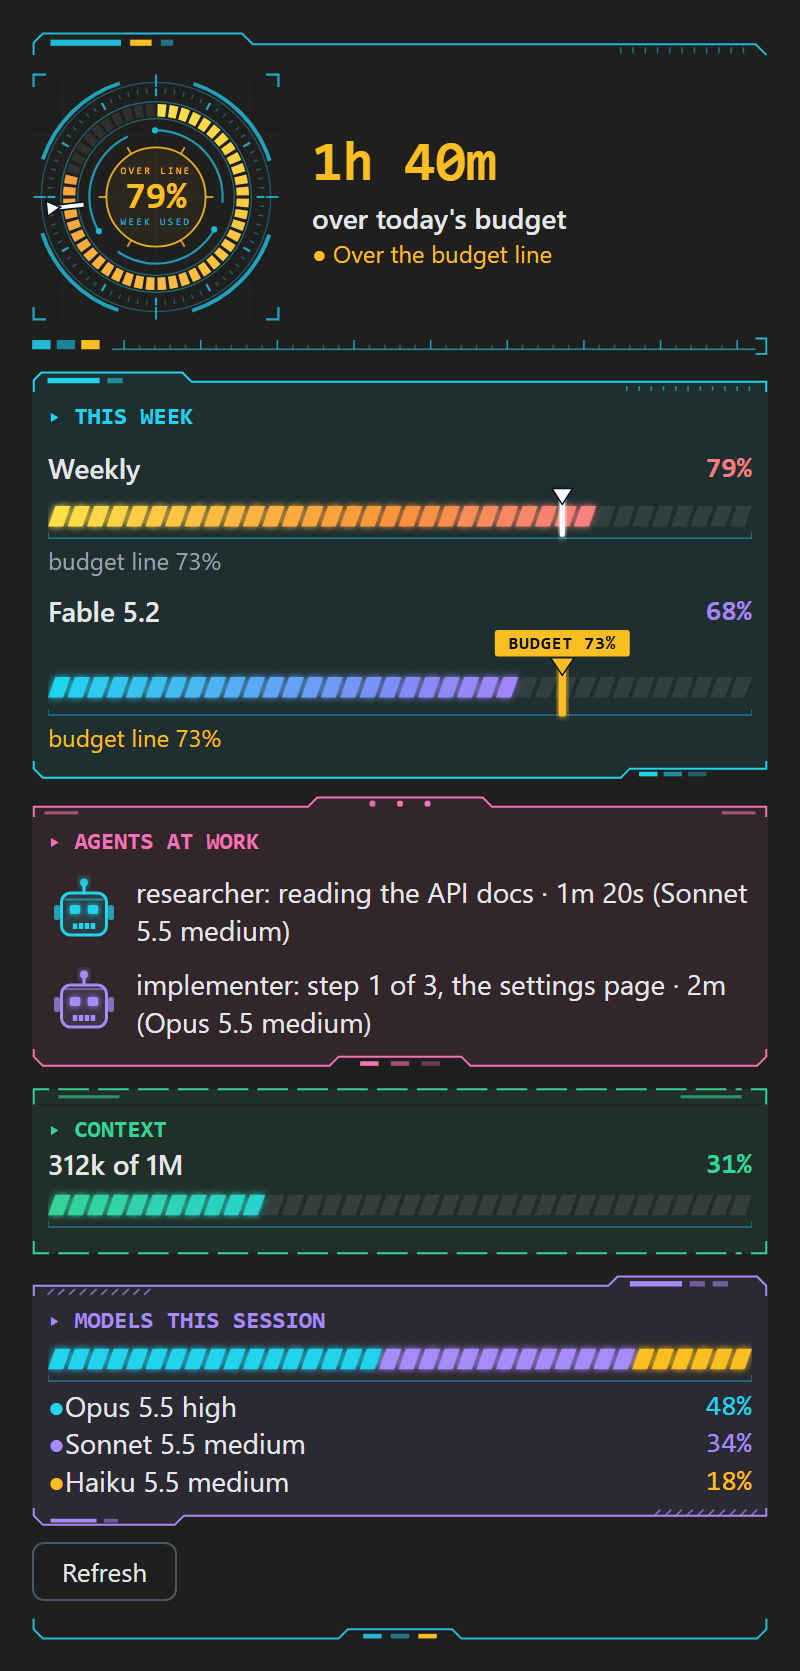
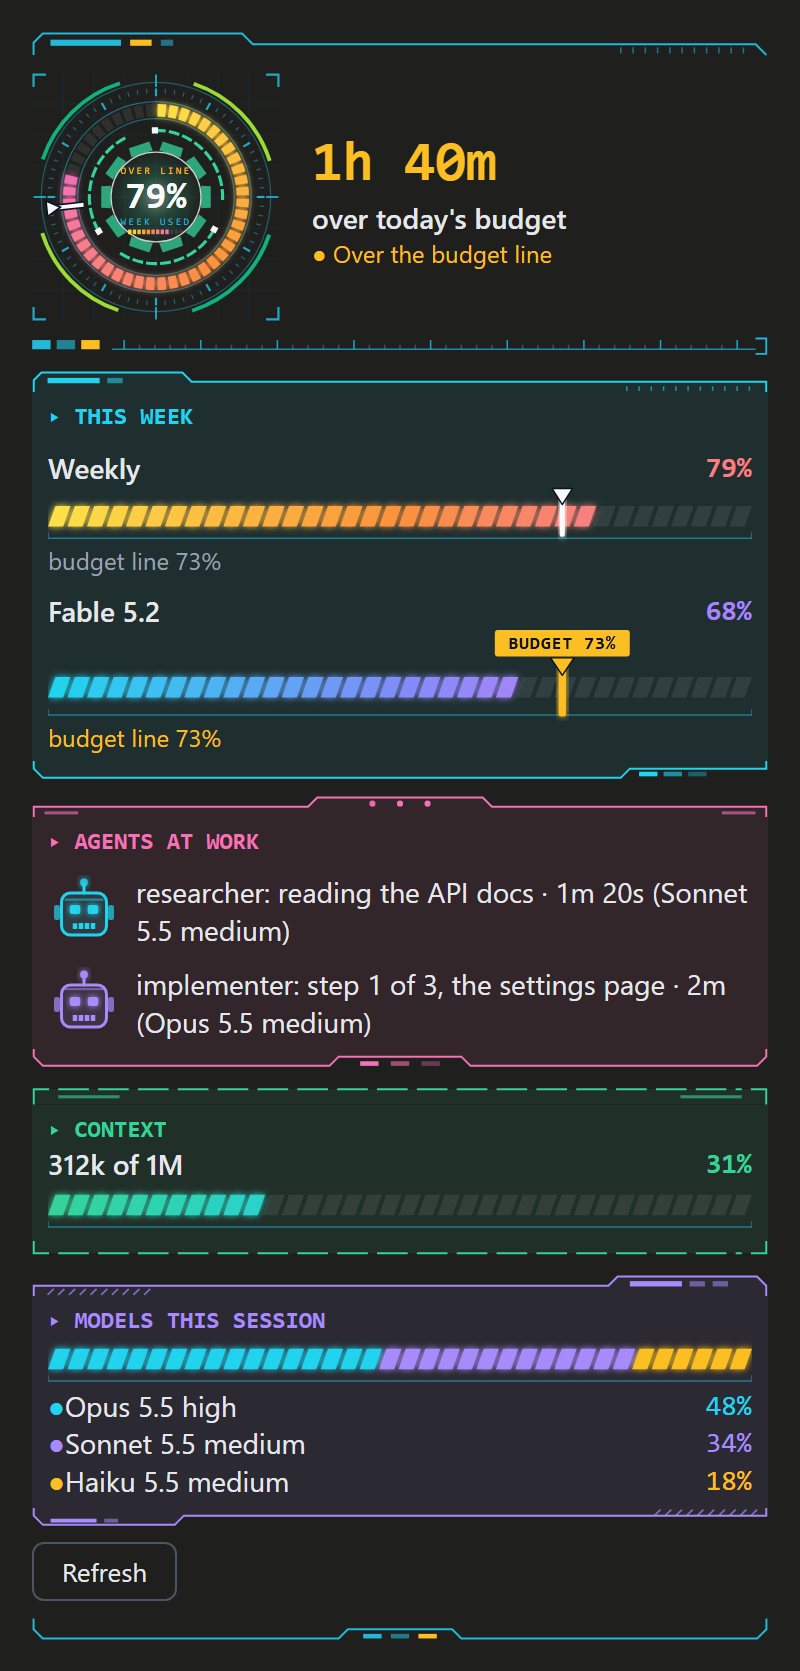
A reactor's glow in the week dial, and fewer toasts; pacing 0.9.35
The dial's percentage ring runs the level's gradient; the frame round the
core is in fixed greens that no gradient takes, the same at every level;
the figure is white; the core is a glowing white heart with ten angled
cells and a strip of cells lit by the week. The README pictures are drawn
again with it.

While the pacing pane is on show, the toasts that an agent or a side
session is done stay away too: the pane lists them.

Changed region(s): [[0.0625, 0.0622, 0.3438, 0.1867]]

diff --git a/pacing/hooks/readings.test.ts b/pacing/hooks/readings.test.ts
@@ -1485,7 +1485,7 @@ test('one agent: a toast when it starts, the line leads with the count, the assi
   expect(status.at(-1)).toBe('Budget: 10% · usage: Weekly 10% Fable 40%')
 })
 
-test('with the pane on show: no toast that an agent started or still runs (the pane lists them); the toast that it is done stays', async ($, on) => {
+test('with the pane on show: no toast that an agent started, still runs or is done (the pane lists them)', async ($, on) => {
   engine(on)
   big(on)
   const clock = mock.clock(on, { now: T0 })
@@ -1497,8 +1497,7 @@ test('with the pane on show: no toast that an agent started or still runs (the p
   await clock.advance(6 * 60000)
   expect(seen.toasts).toEqual([])
   await $.turn.complete(turn('claude-haiku-5-5', 1, 'ag1'))
-  expect(seen.toasts.length).toBe(1)
-  expect(seen.toasts[0]).toMatch(/^✅ reader is done with "a task"/)
+  expect(seen.toasts).toEqual([])
   // behind another tab, or waiting undrawn: the pane shows nothing, so the toasts are back
   panes = [{ id: PANE_ID, title: PANE_TITLE, isShown: false, isFocused: false, isPlaced: true }]
   await spawn($, 'pacing:reader')

diff --git a/docs/auto-readings.md b/docs/auto-readings.md
@@ -1209,3 +1209,24 @@ chose to ship them: `pacing/images/pane-*.png` (about 770 KB), linked
 relatively from the plugin's README, and `scripts/pane-images.mjs` copies
 them there. Whether the page draws images from the plugin's own files is
 what this release tries.
+
+## A reactor's glow in the dial, and fewer toasts (0.9.35)
+
+The user's words, in turn: more colour in the meter at the top; less
+gradient and more contrast; the gradient only on the bar for the
+percentage; the colours round the core not changing with the figure, and
+never the bar's own; the figure white with some small marks; and, of the
+sketches, the reactor's glow. So in `reactorSvg` the data ring runs the
+level's colour run (`SWEEPS`) from the top to the figure, with a glow;
+the brackets, the inner ring and the core are in `FRAME`, greens that no
+run takes, the same at every level; the figure and the inner ring's
+square nodes are white (`FIGURE`); the core is a white heart fading out
+through green, ten angled cells and a thin white rim, with a strip of
+twelve cells under the figure lit by the week. `pacing/images` and
+`docs/images` are drawn again with it.
+
+The user's word, too: too many boxes popping up. While the pacing pane is
+on show the toasts that an agent or a side session is done stay away, as
+those that one started or still runs already did: the pane lists them,
+and an agent's answer comes in the chat. With the pane hidden they come
+as before.

diff --git a/pacing/README.md b/pacing/README.md
@@ -22,7 +22,9 @@ rules; `skills/pacing/SKILL.md` (reports and settings) and
 
 Open beside the chat from the session's start (`/pacing-pane` reopens
 it): the week as a dial, the time left today to stay on budget, the
-meters, the agents at work, the context and the models. Sample figures:
+meters, the agents at work, the context and the models. Sample figures
+(on the organization library's page, open them under `images/` in the
+file list: the page shows a README's pictures as their descriptions):
 
 ![The pacing pane: the week at 55% with 9h 30m left today, Fable 5.2 at 83% and 10 points over its budget line, three agents at work](images/pane-agents.png)
 

diff --git a/pacing/skills/pacing/GUIDE.md b/pacing/skills/pacing/GUIDE.md
@@ -489,7 +489,8 @@ the parts left; else how long that kind of agent usually takes (from
 three finished runs on), less the time it has run. Without either, or
 once the agent has run past the estimate, no figure is given. The start
 toast names the usual length the same way (`…on Fable 5.2 high, about
-20m.`). `/pacing notify off` turns these toasts
+20m.`). While the pacing pane is on show these three toasts stay away:
+the pane lists the agents at work. `/pacing notify off` turns these toasts
 off; the status line and the row stay. Every toast of the plugin leads with one
 icon for its kind, since a toast has no colour of its own:
 
